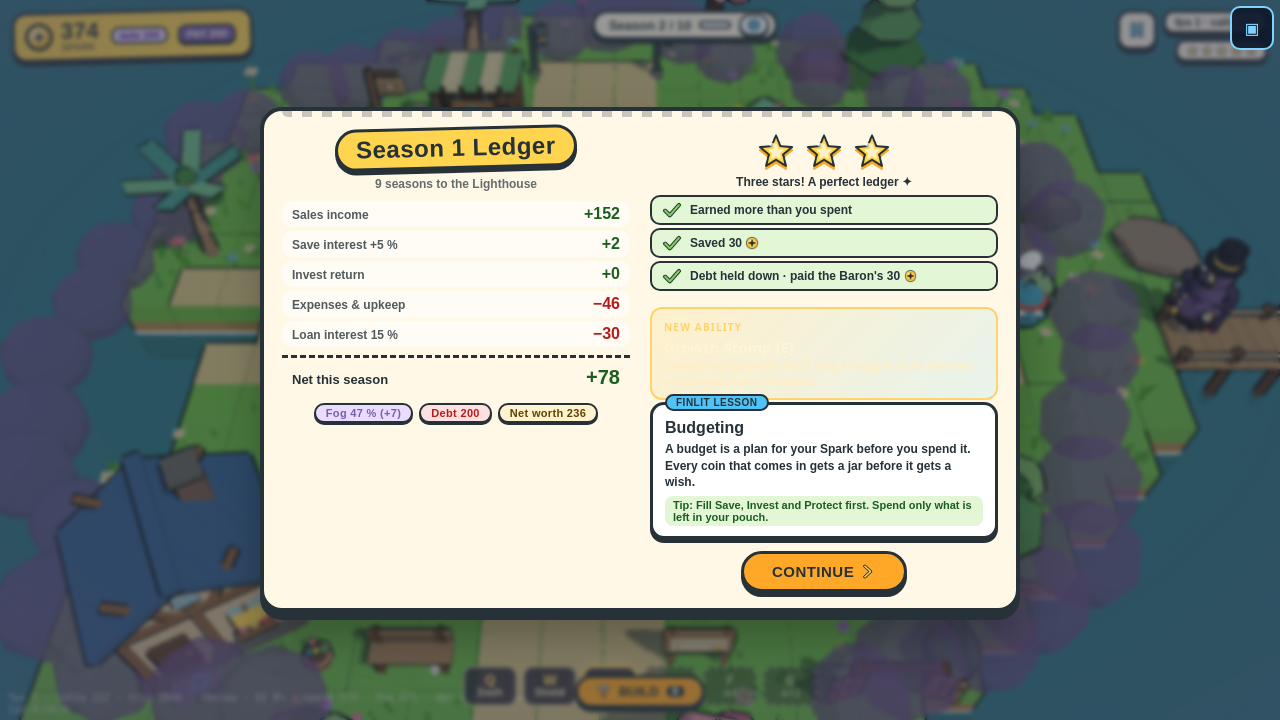
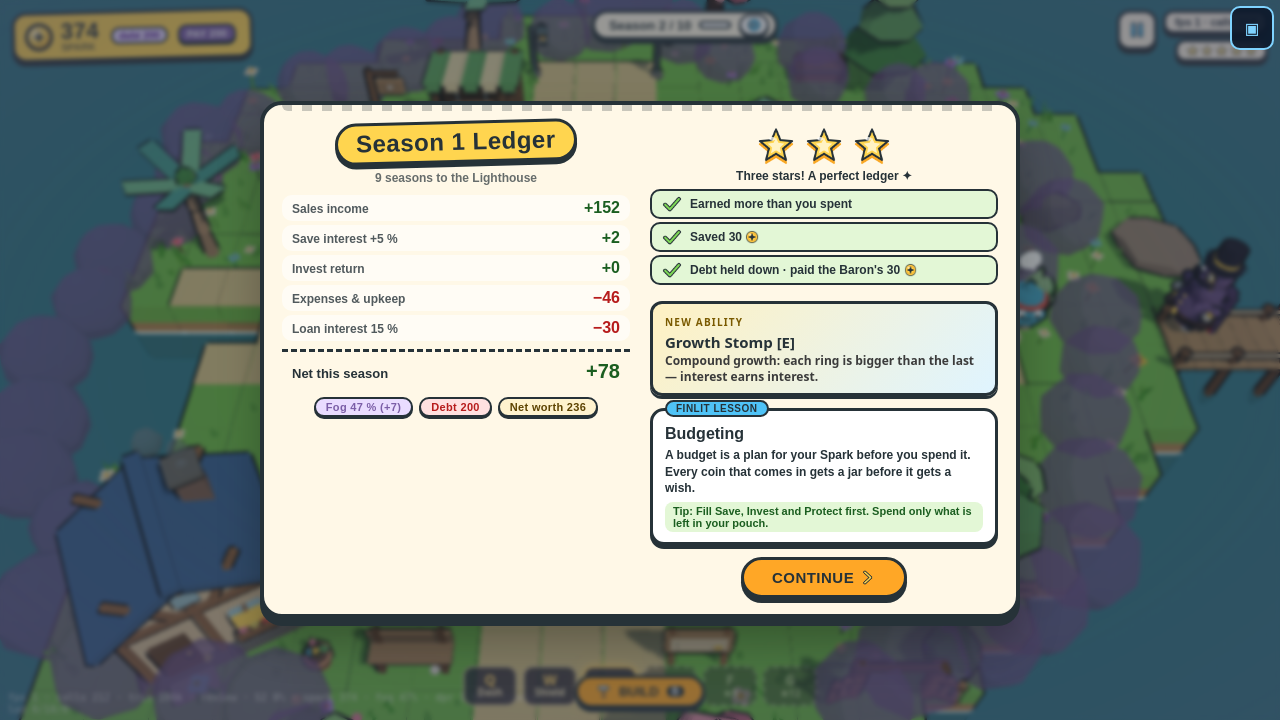
S66-F: NEW ABILITY card readable on paper + spacing

Changed region(s): [[0.1875, 0.1222, 0.8125, 0.8861], [0.2188, 0.275, 0.4688, 0.6111]]

diff --git a/LUMEN/game/ui/ledger.css b/LUMEN/game/ui/ledger.css
@@ -140,3 +140,10 @@
   .ll-ledger-col { display: flex; flex-direction: column; min-width: 0; }
   .ll-ledger-startxt { margin-bottom: 6px; }
 }
+
+/* S66-F: NEW ABILITY card was pale text for a dark sheet = unreadable on the cream paper; and it touched the lesson card */
+.ll-unlock { margin: 8px 0 12px; background: linear-gradient(135deg, #fff1c2, #dff4ff); border: 3px solid var(--ink); box-shadow: 0 3px 0 var(--ink); }
+.ll-unlock-tag { color: #7a5a00; }
+.ll-unlock-title { color: var(--ink); }
+.ll-unlock-body { color: #3b3b3b; opacity: 1; }
+@media (max-height: 460px) { .ll-unlock { margin: 4px 0 10px; padding: 4px 9px; border-width: 2px; } }
